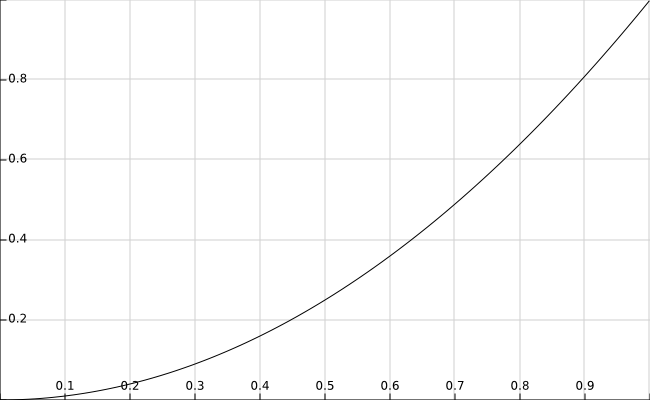
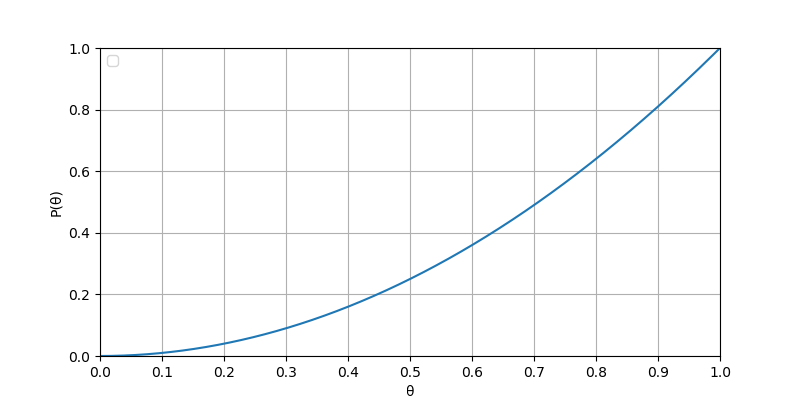
self

diff --git a/img/in-post/post-ml/paint.py b/img/in-post/post-ml/paint.py
@@ -1,0 +1,44 @@
+# coding=utf-8
+import matplotlib.pyplot as plt
+import numpy as np
+import math
+
+def func1(xl):
+    y = []
+    for x in xl:
+        y.append(4 * x * x * math.pow(math.e, -(x - 0.5) *(x - 0.5) / (2 * 0.1 * 0.1)) / (math.sqrt(2 * math.pi) * 0.1))
+    return y
+
+def func2(xl):
+    y = []
+    for x in xl:
+        y.append(math.pow(math.e, -(x - 0.5) * (x - 0.5) / (2 * 0.1 * 0.1)) / (math.sqrt(2 * math.pi) * 0.1))
+    return y
+
+plt.figure(figsize=(8, 4))
+plt.xlabel('θ')
+plt.ylabel('P(θ)')
+x_ = np.arange(0,1,0.001)
+
+'''function below'''
+y_ = func1(x_)
+y1_ = func2(x_)
+
+plt.plot(x_, y1_, label='Prior Distribution')
+plt.plot(x_, y_, label='Posterior Distribution')
+
+# 设置x坐标轴刻度,
+plt.xticks(np.arange(0,1.001,0.1))
+# 设置y坐标轴刻度及标签, $$是设置字体
+#plt.yticks(np.linspace(0, 0.12, 7), np.linspace(0, 12, 7))
+# 获取当前的坐标轴, gca = get current axis
+ax = plt.gca()
+# 设置x坐标轴为下边框
+ax.xaxis.set_ticks_position('bottom')
+# 设置y坐标轴为左边框
+ax.yaxis.set_ticks_position('left')
+plt.xlim(0, 1)
+plt.ylim(0, 5)
+plt.grid(True)
+plt.legend()
+plt.show()

diff --git a/_posts/2018-10-25-ml-overall-bayes.md b/_posts/2018-10-25-ml-overall-bayes.md
@@ -21,28 +21,28 @@ tags:
 内曼提出了置信区间的概念，和K卡尔逊的儿子ES皮尔逊提出了假设检验的内曼-皮尔森引理；
 * 贝叶斯学派（Bayesians），20世纪30年代建立，快速发展于20世纪50年代（计算机诞生后），它的理论基础由17世纪的贝叶斯（Bayes）提出了，
 他提出了贝叶斯公式，也称贝叶斯定理，贝叶斯法则。贝叶斯方法经过高斯（Gauss）和LapLace（拉普拉斯）的发展，在19世纪主宰了统计学。
-* 抽象地说，两种学派的主要差别在于探讨「不确定性」这件事的立足点不一样，频率学派试图对「事件」本身建模，认为「事件本身就具有客观的不确定性」；
-贝叶斯学派不去试图解释「事件本身的随机性」，而是从观察事件的「观察者」角度出发，认为不确定性来源于「观察者」的「知识不完备」，在这种情况下，
-通过已经观察到的「证据」来描述最有可能的「猜的过程」，因此，在贝叶斯框架下，同一件事情对于知情者而言就是「确定事件」，对于不知情者而言就是「随机事件」，
-随机性并不源于事件本身是否发生，而只是描述观察者对该事件的知识状态。
-* 具体来说，两种学派的主要差别是在对参数空间的认知上，即参数的可能取值范围。频率学派认为存在唯一的真实常数参数，观察数据都是在这个参数下产生的，由于不知道
-参数到底是哪个值，所以就引入了最大似然（Maximum Likelihood）和置信区间（confidence interval）来找出参数空间中最可能的参数值；
-贝叶斯学派认为参数本身存在一个概率分布，并没有唯一真实参数，参数空间里的每个值都可能是真实模型使用的参数，区别只是概率不同，
-所以就引入了先验分布（prior distribution）和后验分布（posterior distribution）来找出参数空间每个参数值的概率。
-* 现状是仍在互相争论，也在发展中互相借鉴，经过。
+* 抽象地说，两种学派的主要差别在于探讨「不确定性」这件事的立足点不一样，频率学派试图对「事件」本身建模，认为「事件本身就具有客观的不确定性」；贝叶斯学派不去试图解释「事件本身的随机性」，而是从观察事件的「观察者」角度出发，认为不确定性来源于「观察者」的「知识不完备」，在这种情况下，通过已经观察到的「证据」来描述最有可能的「猜的过程」，因此，在贝叶斯框架下，同一件事情对于知情者而言就是「确定事件」，对于不知情者而言就是「随机事件」，随机性并不源于事件本身是否发生，而只是描述观察者对该事件的知识状态。
+* 具体来说，两种学派的主要差别是在对参数空间的认知上，即参数的可能取值范围。频率学派认为存在唯一的真实常数参数，观察数据都是在这个参数下产生的，由于不知道参数到底是哪个值，所以就引入了最大似然（Maximum Likelihood）和置信区间（confidence interval）来找出参数空间中最可能的参数值；贝叶斯学派认为参数本身存在一个概率分布，并没有唯一真实参数，参数空间里的每个值都可能是真实模型使用的参数，区别只是概率不同，所以就引入了先验分布（prior distribution）和后验分布（posterior distribution）来找出参数空间每个参数值的概率。
+* 现状是仍在互相争论，也在发展中互相借鉴。
 
 用一个例子去更好地理解两种学派的对应两种方法，首先是一些名词的解释
 
 * θ: 模型参数
 * x: 观察样本点
-* 似然函数: 在字典中，似然（likelihood）和概率（probability）是差不多的意思，但在统计学里，似然函数和概率函数的含义却不同，对于形式为<a href="http://www.codecogs.com/eqnedit.php?latex=P(x|\theta)" target="_blank"><img src="http://latex.codecogs.com/gif.latex?P(x|\theta)" title="P(x|\theta)" /></a>
-的函数，如果θ是已知的，x是变量，这个函数叫做概率函数（probability function），描述的是不同的样本x出现的概率是多少; 如果x是已知的，θ是变量，
-这个函数叫做似然函数（likelihood function），描述的是不同的模型参数下，出现x这个样本的概率是多少。
-举个抛硬币的简单例子，我们先假设硬币均匀，硬币出现朝上概率p=0.5，那么出现两次朝上的概率是0.25，这个0.25是似然函数值，
-如果之前我们假设的是硬币不均匀，朝上概率p=0.6，那么出现两次朝上概率就成了0.36，似然函数值越大能**表征**θ成立的概率越大，**但一定要注意似然函数值并不等于出现样本x时θ成立的概率**，即更关注值的大小关系，而非值本身。
-* 最大似然估计：其实上面抛两次硬币的例子就进行了似然估计，其曲线可表示为
+* 似然函数: 在字典中，似然（likelihood）和概率（probability）是差不多的意思，但在统计学里，似然函数和概率函数的含义却不同，对于形式为<a href="http://www.codecogs.com/eqnedit.php?latex=P(x|\theta)" target="_blank"><img src="http://latex.codecogs.com/gif.latex?P(x|\theta)" title="P(x|\theta)" /></a>的函数，如果θ是已知的，x是变量，这个函数叫做概率函数（probability function），描述的是不同的样本x出现的概率是多少; 如果x是已知的，θ是变量，这个函数叫做似然函数（likelihood function），描述的是不同的模型参数下，出现x这个样本的概率是多少。多个样本的离散型x的似然函数可表示为<img src="http://latex.codecogs.com/gif.latex?L(\theta)&space;=&space;\sum_{i=1}^{n}P(x|\theta)" title="L(\theta) = \sum_{i=1}^{n}P(x|\theta)" />。举个抛硬币的简单例子，我们先假设硬币均匀，硬币出现朝上概率p=0.5，那么出现两次朝上的概率是0.25，这个0.25是似然函数值，如果之前我们假设的是硬币不均匀，朝上概率p=0.6，那么出现两次朝上概率就成了0.36，似然函数值越大能**表征**θ成立的概率越大，**但一定要注意似然函数值并不等于出现样本x时θ成立的概率**，即更关注值的大小关系，而非值本身。
+* 最大似然估计（MLE）: 其实前面抛两次硬币的例子中就进行了似然估计，其曲线可如图1表示，当p=0.5时，似然估计值为0.25；p=0.6时，似然估计值为0.36；在p=1.0时能取到最大似然估计值1.0。
 
-而且当p=0.5时，似然估计值为0.25；p=0.6时，似然估计值为0.36；在p=1.0时能取到最大似然估计值1.0。
+<div align=center>
+<img src="https://kangcai.github.io/img/in-post/post-ml/2018-10-26-ml-overall-bayes-1.png"/>
+</div>
+<center>图1 抛两次硬币实验的似然函数</center>
+
+* 最大后验估计（MAP）: 最大后验估计会加入先验知识，通过贝叶斯公式<img src="http://latex.codecogs.com/gif.latex?P(\theta|x_0)=\frac{P(x_0|\theta)P(\theta)}{P(x_0)}" title="P(\theta|x_0)=\frac{P(x_0|\theta)P(\theta)}{P(x_0)}" />来得到硬币朝上概率的概率分布。同样是两抛次硬币的例子，最大似然估计方法通过抛两次硬币的样本得出是硬币朝上概率最可能是1.0的结论，我会觉得这个结论不可信，因为就我以前对硬币的认知，通常情况下硬币是接近均匀的，朝上的概率一般是0.5，最大后验估计就是在推断的过程中，通过贝叶斯定理将上述的这个先验知识考虑进去。对于投硬币的例子来看，我们认为（先验地知道）θ取0.5的概率很大，取其它值相对较小，用一个高斯分布来具体描述我们掌握关于θ的这个先验知识，比如假设<img src="http://latex.codecogs.com/gif.latex?\theta&space;$\sim$&space;N(0.5,0.1^2)" title="\theta $\sim$ N(0.5,0.1^2)" />，即θ服从均值0.5，方差0.1的正态分布，函数如图2中Prior Distribution曲线所示，则最后后验估计函数为<img src="http://latex.codecogs.com/gif.latex?P(\theta|x)=\frac{\theta^2e^{-\frac{(\theta-\mu)^2}{2\sigma^2}}}{F\sqrt{2\pi}\sigma},\mu=0.5,\sigma=0.1" title="P(\theta|x)=\frac{\theta^2e^{-\frac{(\theta-\mu)^2}{2\sigma^2}}}{F\sqrt{2\pi}\sigma},\mu=0.5,\sigma=0.1" />，其中F为积分常数，函数如图2中Posterior Distribution曲线所示。其实回头看最大似然估计，当我们的先验假设是<img src="http://latex.codecogs.com/gif.latex?\theta$\sim$U(0,1)" title="\theta$\sim$U(0,1)" />，即θ服从均匀分布时，最大后验估计的目标函数和最大似然目标函数是同样形式的（当然这并非说明最大似然估计是最大后验估计的特例，前者的出发点就不一样）。
+
+<div align=center>
+<img src="https://kangcai.github.io/img/in-post/post-ml/2018-10-26-ml-overall-bayes-2.png"/>
+</div>
+<center>图2 抛两次硬币实验的先验分布和后验分布</center>
 
 参考文献
 
